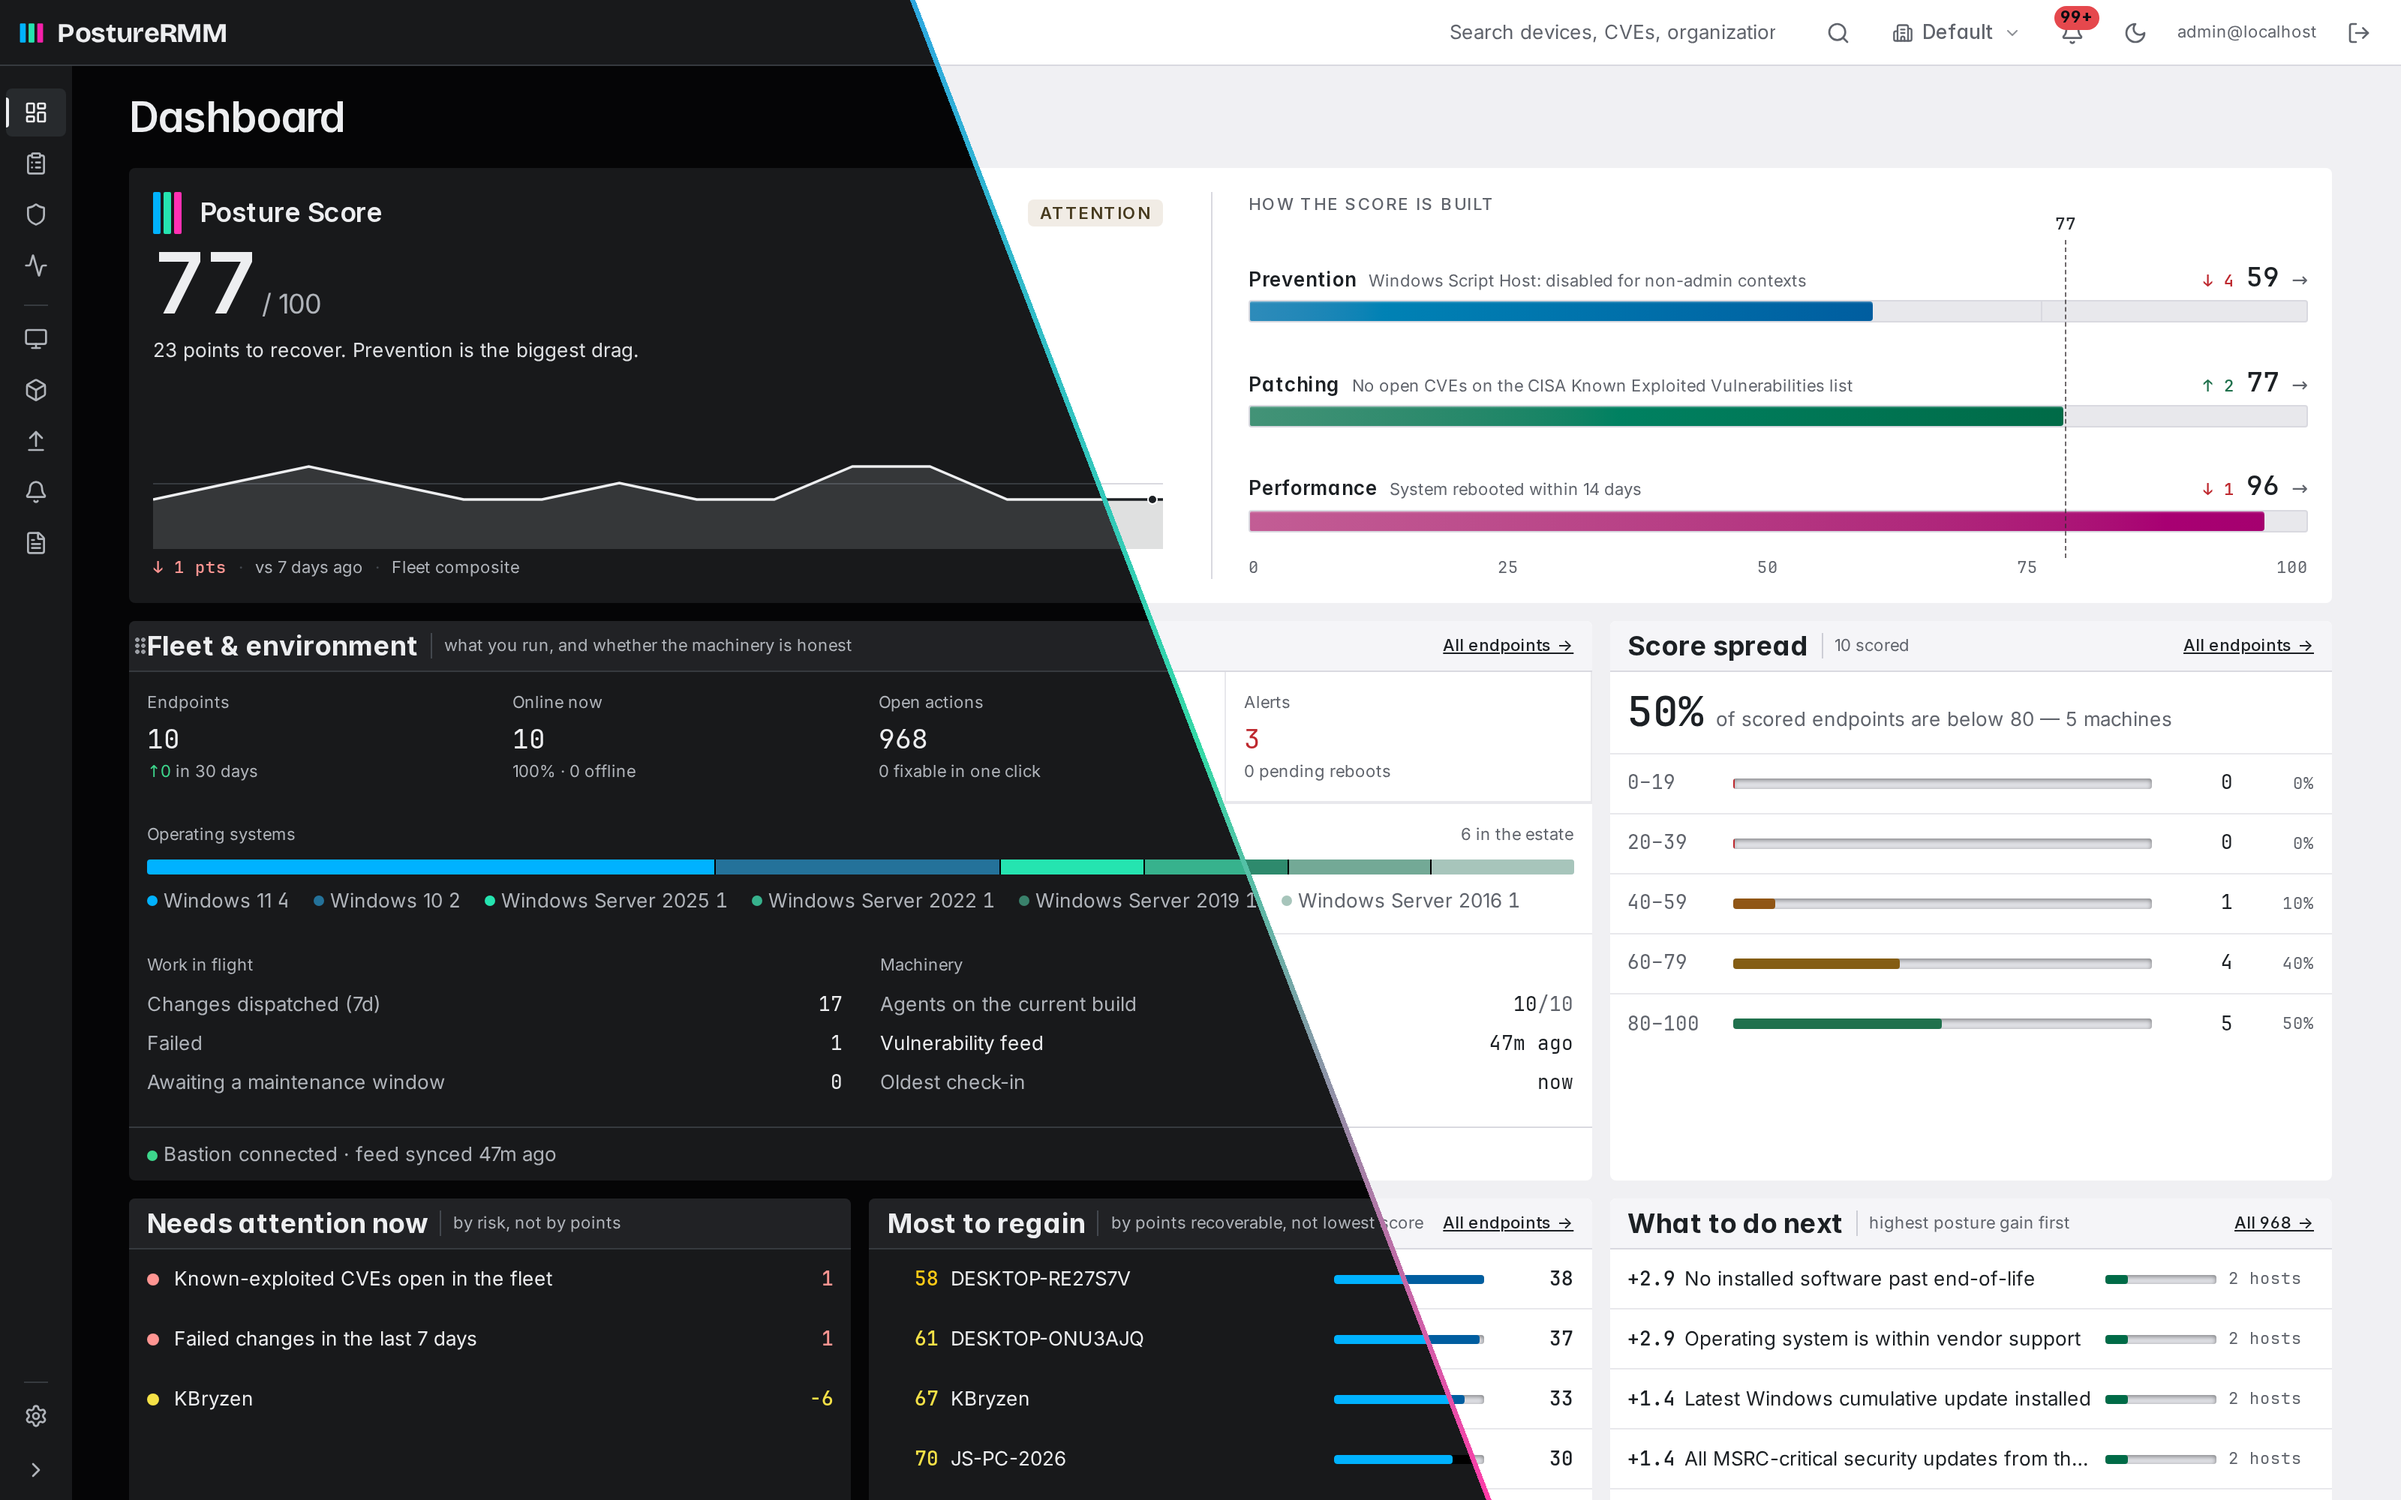
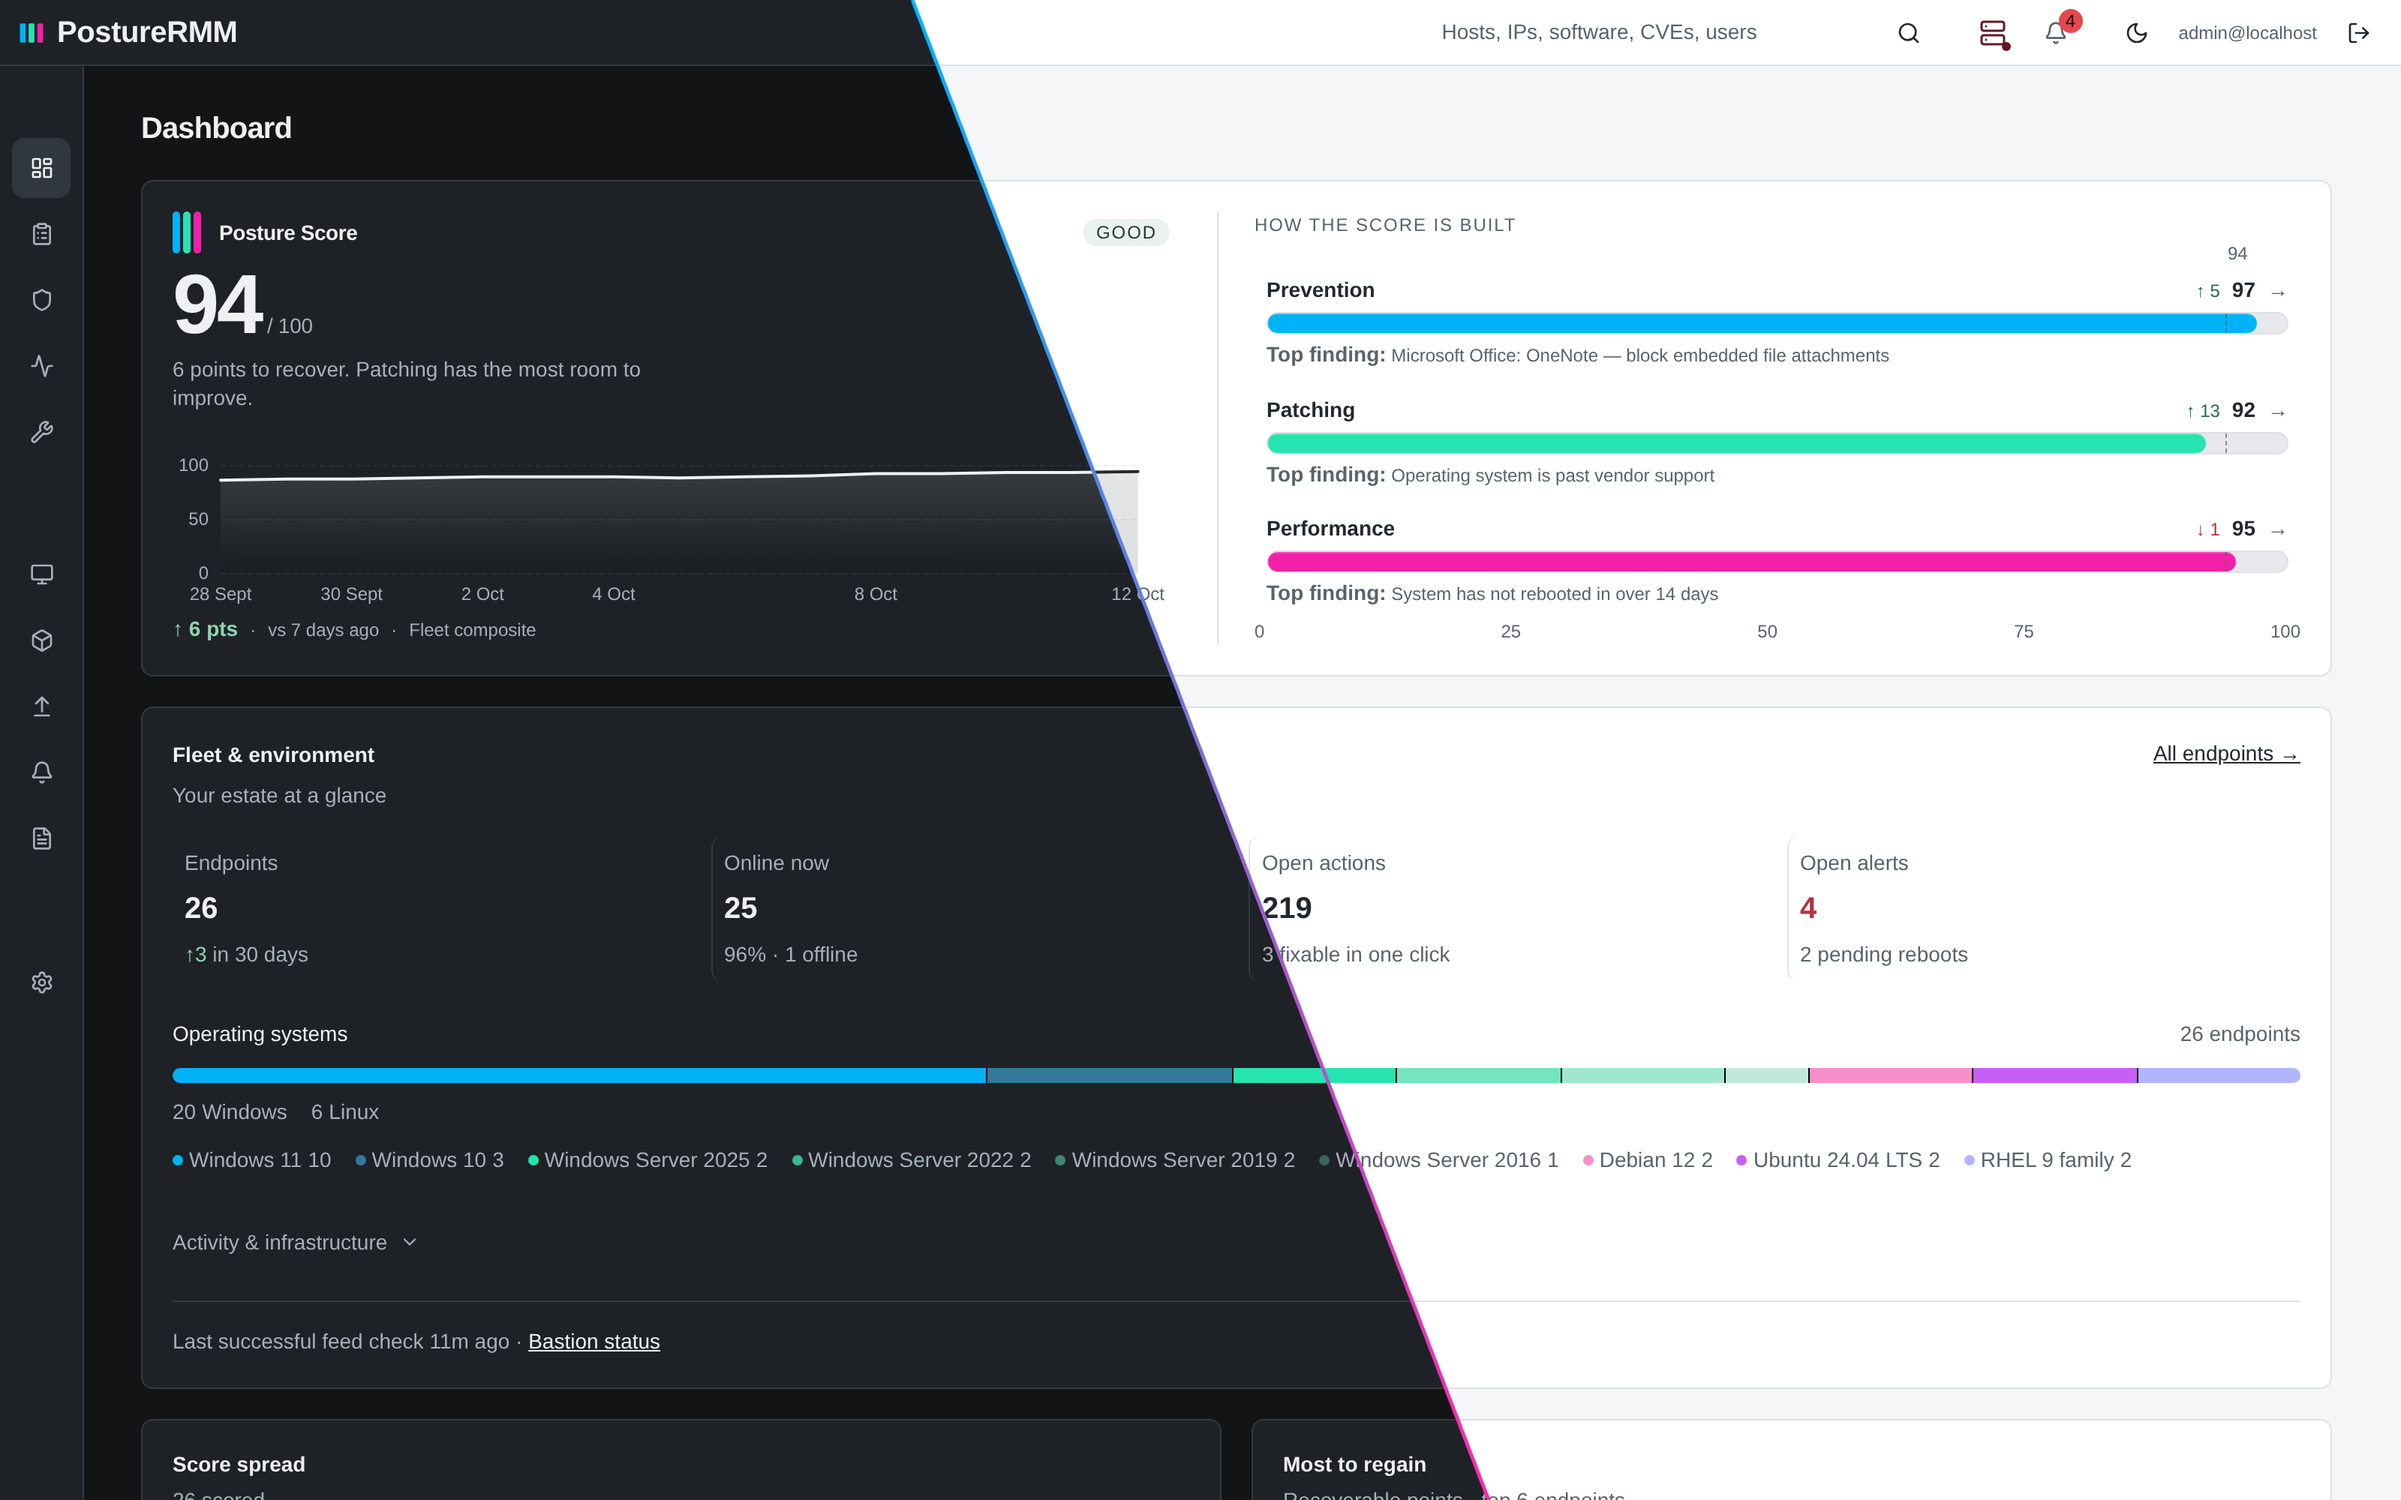
docs: refresh the README for v1.16.0 and recapture the dashboard screenshot

diff --git a/README.md b/README.md
@@ -4,7 +4,7 @@
 
 **Endpoint management, security and compliance in one self-hosted platform.**
 
-Manage, patch, deploy, remote into, harden, audit and remediate your Windows fleet —
+Manage, patch, deploy, remote into, harden, audit and remediate your Windows endpoints and Linux servers —
 from one console, on your own hardware, with your fleet data never leaving it.
 
 **Free forever up to 50 endpoints. Every feature. No asterisks.**
@@ -25,12 +25,12 @@ rather than reporting the API call as a success.
 
 | Area | Capabilities |
 |---|---|
-| **Compliance** | Audit against DISA STIG, Microsoft Security Baselines and a curated hardening profile. Failing checks carry authored fixes that apply per-endpoint, per-check across the fleet, or as "apply all safe fixes" — behind a safety gate that refuses anything which would cut your own access. Every fix is verified by re-running the check, and every fix is revertible, because each executor captures the state it overwrote. |
-| **Patching** | Windows updates scanned **offline** against Microsoft's own applicability engine — no internet needed on the endpoint or the server. Third-party app updates from a curated catalogue. CVE correlation across NVD, EPSS, MSRC, CISA KEV and GHSA with version-range-aware matching. Deployment policies with canary pauses, maintenance windows and an optional supply-chain bake period. |
-| **Software** | Curated app catalogue with one-click install and uninstall, custom `.msi`/`.exe`/`.msix` upload, registry-verified installs with exit-code classification and tiered retry, full software inventory, and an application blocklist for rival agents and unapproved remote-access tools. |
-| **Remote access** | Browser-based remote desktop, a real terminal, file browse/upload/download, and PowerShell execution with an approval workflow and live output — no separate tool, no separate agent. |
-| **Fleet** | Rule-based dynamic groups, ARP network discovery for unmanaged devices, hardware and disk-health inventory, per-endpoint reachability history, maintenance windows, reboot policies with end-user deferral, and alerting over webhook and email with delivery health you can see. |
-| **Access & audit** | OIDC single sign-on — free, in every tier — five-role RBAC with group scoping, TOTP 2FA, scoped API keys, a permanent audit trail, multi-tenant data model, and a read-only "view as" lens so you can check RBAC is what you think it is. |
+| **Compliance** | Audit Windows and Linux servers against DISA STIG, Microsoft Security Baselines and a curated hardening profile. Failing checks carry authored fixes that apply per-endpoint, per-check across the fleet, or as "apply all safe fixes" — behind a safety gate that refuses anything which would cut your own access. Every fix is verified by re-running the check, and every fix is revertible, because each executor captures the state it overwrote. |
+| **Patching** | Windows updates scanned **offline** against Microsoft's own applicability engine — no internet needed on the endpoint or the server. Linux package updates from the distribution's own advisories, installed from packages your own server carries. Third-party app updates from a curated catalogue. CVE correlation across NVD, EPSS, MSRC, CISA KEV and GHSA with version-range-aware matching. Deployment policies with canary pauses, maintenance windows and an optional supply-chain bake period. |
+| **Software** | Curated app catalogue with one-click install and uninstall, custom `.msi`/`.exe`/`.msix` upload, registry-verified installs with exit-code classification and tiered retry, full software inventory on Windows and Linux, and an application blocklist for rival agents and unapproved remote-access tools. |
+| **Remote access** | Browser-based remote desktop (Windows), a real terminal, file browse/upload/download, and PowerShell, `sh` or `bash` execution with an approval workflow and live output — no separate tool, no separate agent. |
+| **Fleet** | Rule-based dynamic groups, ARP network discovery for unmanaged devices, hardware and disk-health inventory, per-endpoint reachability history, maintenance windows, reboot policies with end-user deferral, alerting over webhook and email with delivery health you can see, and custom monitors that run on the agent and alert through the same channels. |
+| **Access & audit** | OIDC single sign-on — free, in every tier — five-role RBAC with group scoping, TOTP 2FA, scoped API keys, an audit trail you can forward off-host over TLS syslog, escrowed BitLocker recovery keys and local administrator passwords, a multi-tenant data model, and a read-only "view as" lens so you can check RBAC is what you think it is. |
 
 ## The Posture Score
 
@@ -48,18 +48,23 @@ guess dressed up as a number. An empty fleet reads "not yet established", not ze
 
 ## What's in the box
 
-**2,850 atomic compliance checks** across ten platforms, imported from upstream DISA SCAP/XCCDF and
-the Microsoft Security Compliance Toolkit by dedicated importers — not hand-transcribed:
+**4,270 atomic compliance checks** across seventeen platforms, imported from upstream DISA SCAP/XCCDF,
+the Microsoft Security Compliance Toolkit and ComplianceAsCode by dedicated importers — not
+hand-transcribed — alongside PostureRMM's own curated hardening checks:
 
 | Platform | Checks |
 |---|---|
-| Windows 11 · 10 | 577 · 496 |
-| Windows Server 2022 · 2019 · 2016 · 2025 | 443 · 384 · 329 · 286 |
-| Microsoft 365 Apps · Edge · Chrome · Firefox | 201 · 73 · 38 · 23 |
+| Windows 11 · 10 | 573 · 515 |
+| Windows Server 2022 · 2019 · 2016 · 2025 | 458 · 453 · 338 · 494 |
+| Microsoft 365 Apps · Edge · Chrome · Firefox · Acrobat Reader | 202 · 79 · 39 · 26 · 2 |
+| Ubuntu 22.04 · 24.04 | 103 · 103 |
+| Debian 12 · 13 | 208 · 208 |
+| RHEL 9 · 10 (and Rocky, AlmaLinux) | 249 · 220 |
 
-Plus **nine mandate crosswalks** — HIPAA, PCI DSS v4, SOC 2 CC, ISO 27001 Annex A, CMMC L1 and L2,
-Cyber Essentials, cyber-insurance questionnaires and customer security questionnaires — mapping
-regulatory controls back to the checks that answer them.
+Plus **seven mandate crosswalks** — HIPAA, PCI DSS v4, SOC 2 CC, ISO 27001 Annex A, CMMC L1 and L2,
+and Cyber Essentials — mapping regulatory controls back to the checks that answer them, and the ACSC
+Essential Eight as a coverage lens on Windows that reports what is measured and never claims a
+maturity level.
 
 Checks are YAML, not code. So is every posture rule. You can read them, and so can your auditor.
 
@@ -107,7 +112,7 @@ from us**, and cannot be reached by us at all.
 │   Backend (Rust) ── TLS edge, API, admin UI, scheduler      │
 │      │              zero outbound internet                  │
 │      ├── PostgreSQL                                         │
-│      └── Agents (Rust) ── Windows service, no runtime deps  │
+│      └── Agents (Rust) ── Windows or Linux, no runtime deps │
 └─────────────────────────────────────────────────────────────┘
 ```
 
